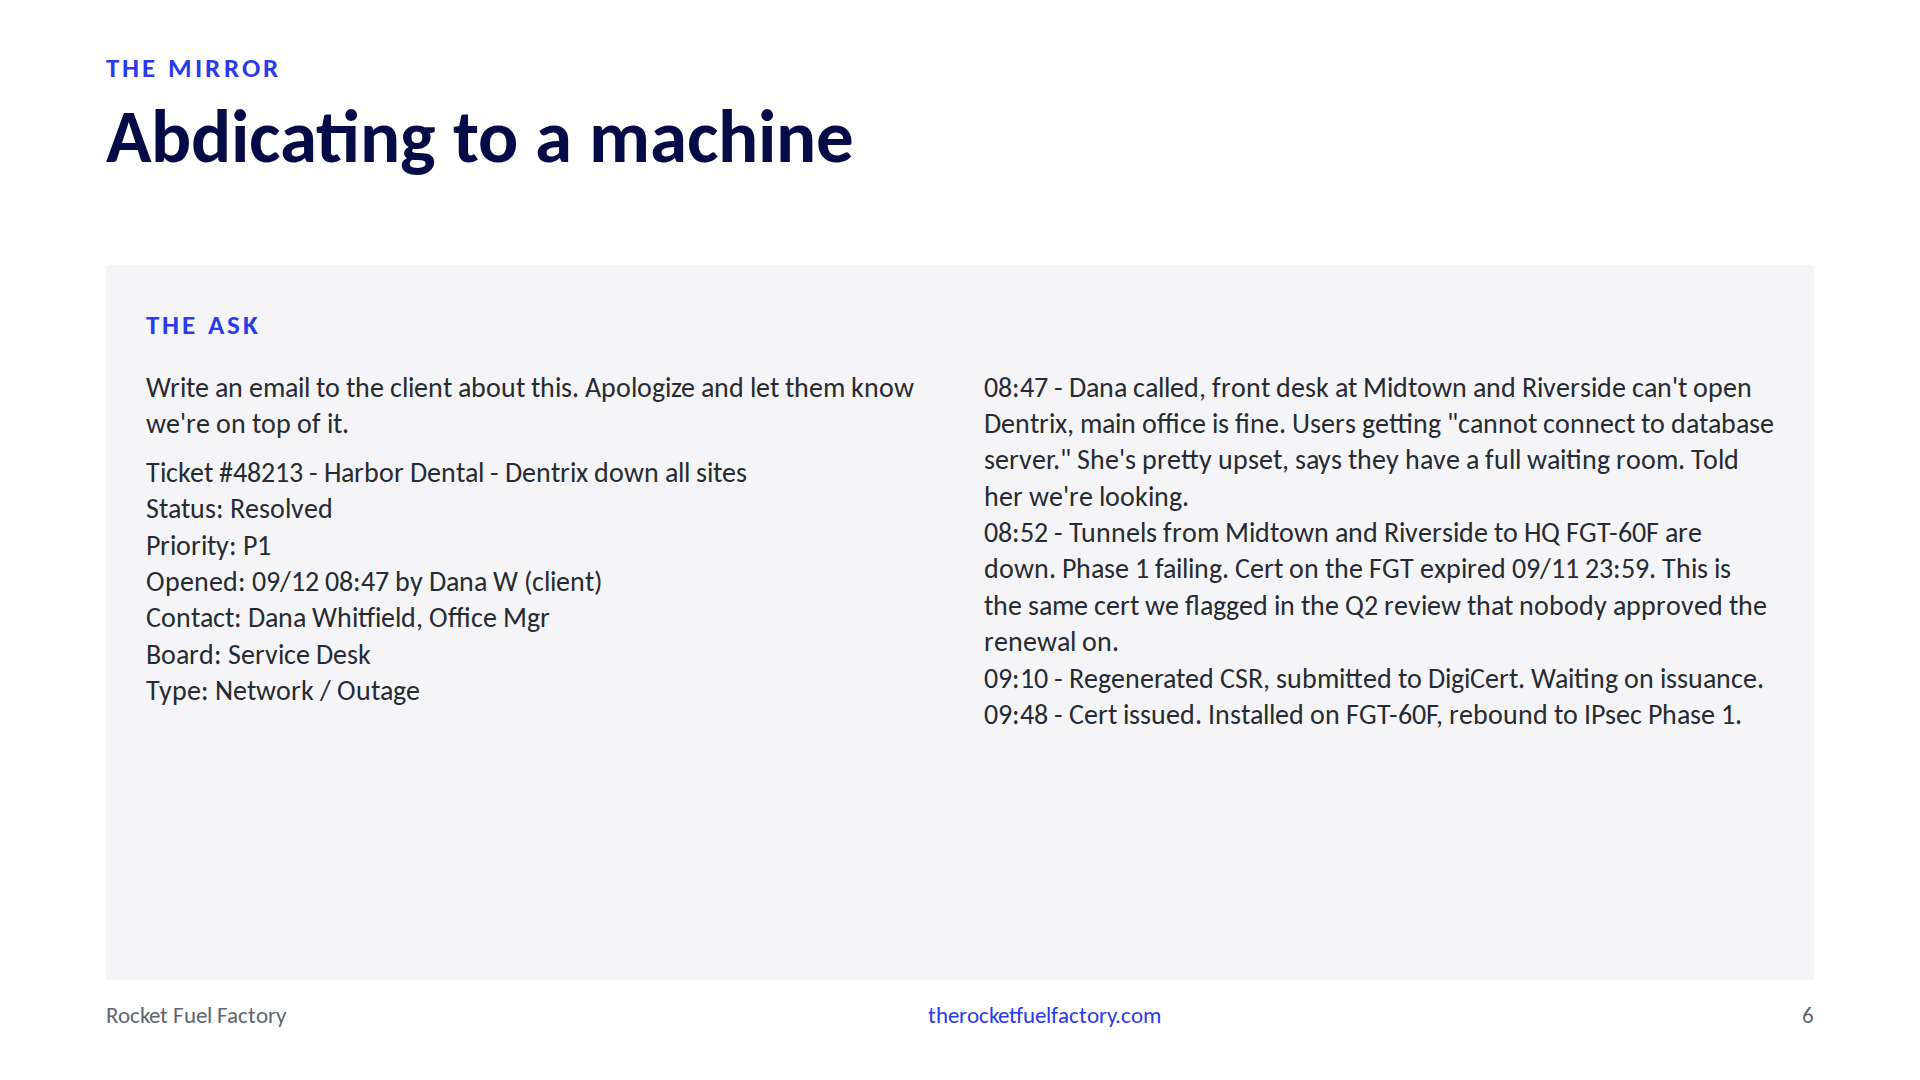
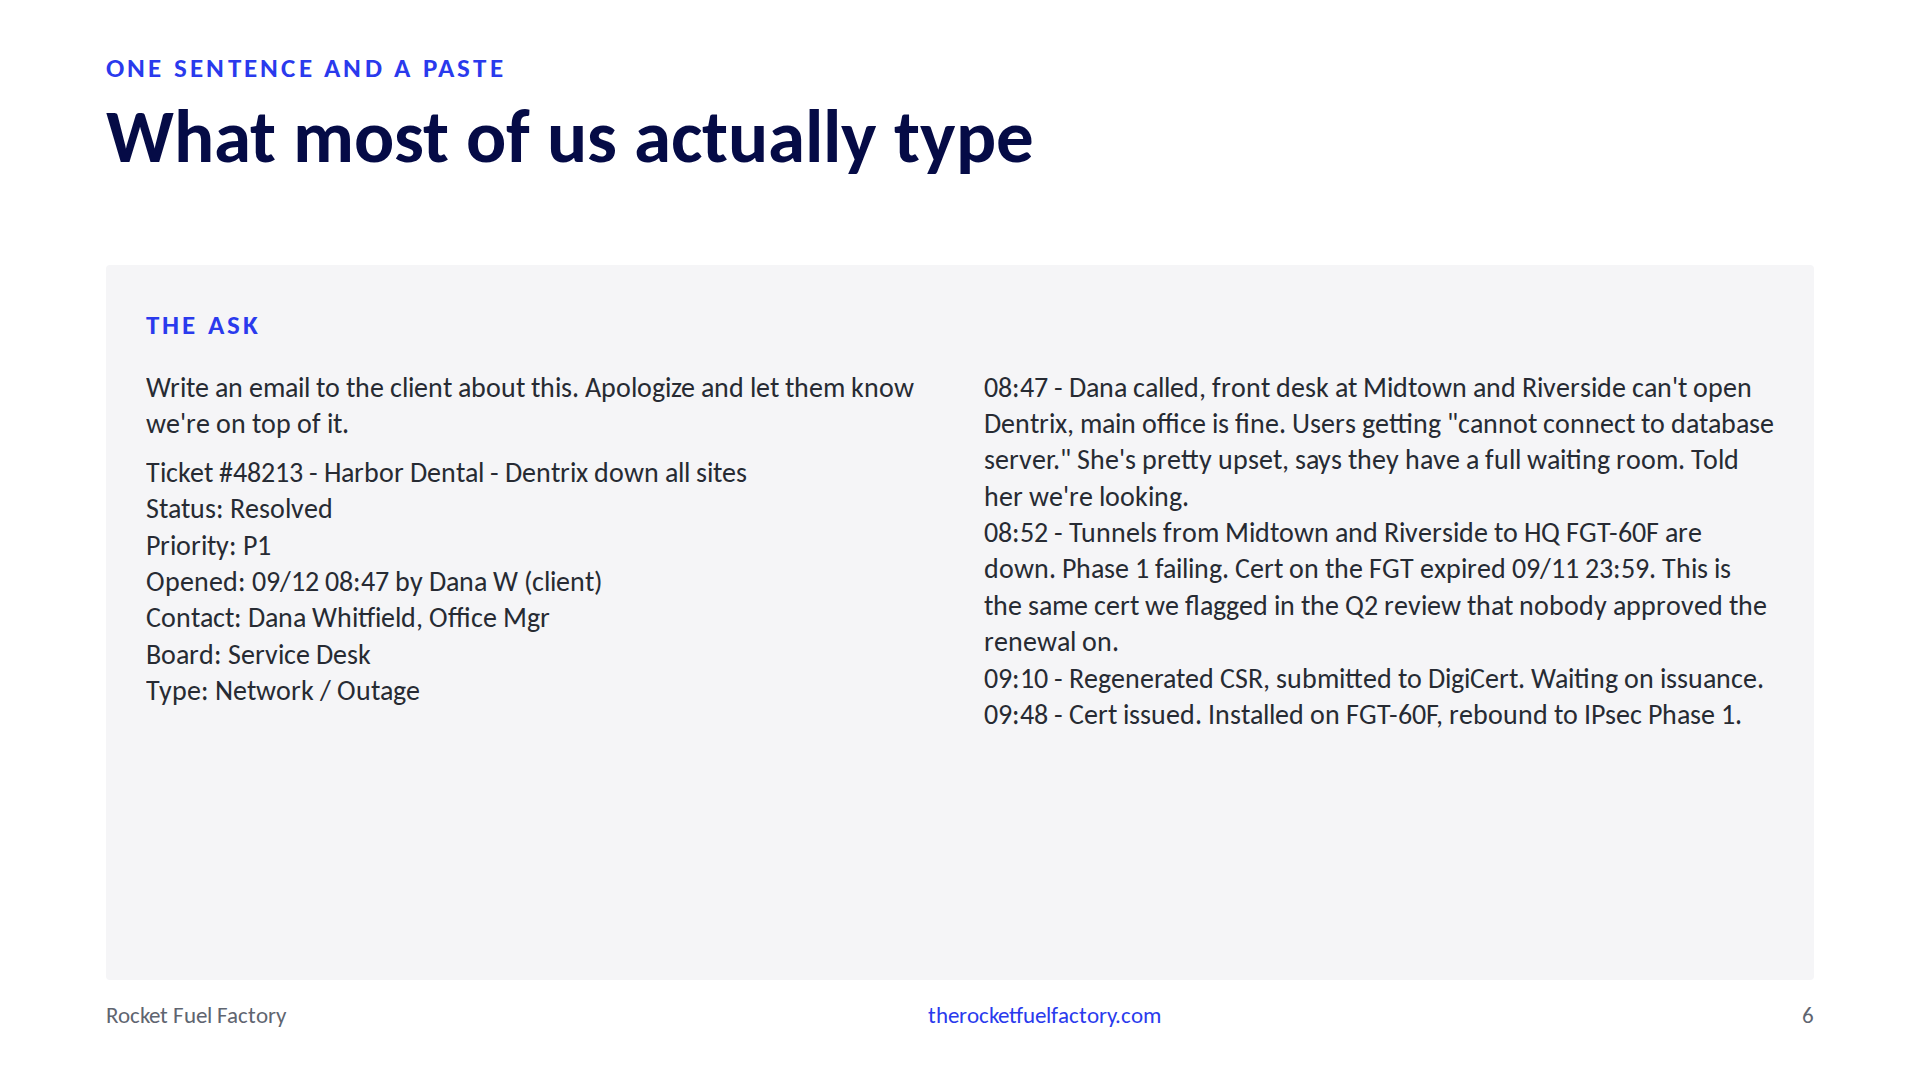
Slide 6: plain title and eyebrow, note as spoken words

Changed region(s): [[0.0625, 0.0306, 0.5625, 0.1528]]

diff --git a/src/data/notes.js b/src/data/notes.js
@@ -9,7 +9,7 @@ export const notes = {
   'the-typing-is-hiding-a-decision': 'Target 1:00. SLOW. Here is a piece of what that person carries. Take the alert that fires every night at two. They know it clears itself. They also know the one that looks identical and does not. That is a decision, and it is not in any document. Nobody has asked them for it, including you. That is also why the hire does not fix it. A new person cannot learn what nobody has written down, so in six months you have two people you cannot spare instead of one. That is why the vacation request scares you, and it is not their fault. Here is how it got that way.',
   'abdicate-not-delegate': 'Target 2:30. You hand a job to your senior tech with about two sentences, and it comes back right, so you assume the two sentences were good. They were not. That person was making a dozen small calls you never mentioned, and making them the way you would have. Then you give the same two sentences to somebody new. What comes back is wrong, and you decide the new person is not working out. The brief was the problem both times. Look at the left column. The rule for who gets a phone call took one sentence. Nobody in your shop has ever been asked for that sentence, and you have been paying for the guess instead. You only find out when you hand the job to somebody who cannot read your mind. Then you hand that same two-sentence brief to something that has never met you.',
   'the-demo-never-had-a-client': 'Target 4:00. I have sat through a lot of these. Somebody types a sentence, something gorgeous appears. Nobody in the demo checks whether the details are right, because in a demo nobody has to. And if you go back and watch one of those videos carefully, the presenter does not stop at one sentence either. They come back with more instructions. That part just gets cut short. So I go back to work and try it the same way, one sentence and a paste. What comes back is real effort and a reasonable guess at what I meant, and I would not send it. Here is what that looks like.',
-  'demo-weak': 'Target 4:50. The mirror. This is what everyone in the room actually does: one line, paste the ticket. Read the line. Point at the ticket: it has everything a tech needs. Full waiting room, FGT-60F, Phase 1, DigiCert, and the aside that we flagged this cert in Q2 and nobody approved the renewal. Your best tech reads that and knows what to leave out. This reader has no idea who Dana is. Click.',
+  'demo-weak': 'Target 4:40. This is what I type. One line, and I paste the ticket under it. Look at the ticket. It has everything a tech would need: the full waiting room, the FortiGate, Phase 1, DigiCert, and that line near the bottom about the Q2 review where nobody approved the renewal. My best tech reads that and knows what to leave out. This reader has no idea who Dana is.',
   'demo-weak-output': 'Target 5:40. Whole thing, two columns, so they can see how long it is. Read it as Dana. Ticket number in the subject line. Bold section headers like an incident report. Bottom right: Your Company Name, it did not know who was speaking. Then the blue sentence. Read it aloud: this certificate had actually been flagged for renewal in our Q2 review, and we are correcting the gap that let it lapse. That is the one line in the ticket you would never put in front of a client, and it is now in an email Dana forwards to the practice owner. When I reran this, it did that two times out of three. The third time it hid it. You did not get a vote either way. Line to land: you pasted the ticket, it told your client what you never approved. Then: it did exactly what you wrote. So did your tech. This one was fast enough for you to notice.',
   'demo-brief': 'Target 8:25. Now you know what to say. Same ticket pasted underneath; these are the words that went above it, in plain prose. Point at what the machine asked for and you supplied: who Dana is and that she forwards it to Dr. Patel, do not quote the ticket, the Q2 conversation is for me and the owner, no patient data because that is what she asked on the phone, and on top of it means monitoring by Friday. This is delegating.',
   'demo-strong': 'Target 9:40. Loud punchline: same tool, same task, the only thing that changed was how you asked. Under 150 words, Dr. Patel named, forwardable. Then the bridge, one breath, before the click. That is communication: hand over the judgment calls, not just the facts. Now take it to something bigger than an email. When you say we set up new users, what you have is a ticket with the facts. The judgment calls are in someone\'s head. You just saw what happens when you hand that to a machine. Click.',

diff --git a/src/components/slides/006-DemoWeak.jsx b/src/components/slides/006-DemoWeak.jsx
@@ -6,8 +6,8 @@ import { weakPrompt } from '../../data/demo.js'
 export default function DemoWeak({ slideNumber }) {
   return (
     <PromptOutputSlide
-      eyebrow="The mirror"
-      title="Abdicating to a machine"
+      eyebrow="One sentence and a paste"
+      title="What most of us actually type"
       accent="blue"
       slideNumber={slideNumber}
       only="prompt"

diff --git a/docs/OUTLINE.md b/docs/OUTLINE.md
@@ -40,7 +40,7 @@ Closing line: If you can't write the rule, you can't hire your way out of it eit
 
 4. Handing over the work is not the same as delegating (comparison, blue). One of slide 3's decisions made concrete. When you delegate: you hand them the queue; you wrote the rule down (call on any P1, and on anything from a client who has called twice); they check the ticket against that. When you hand over the rules too: you hand them the queue; you left the rule to them (use your judgment); they guess, and with luck they guess right. Closing, Tim's line: your best employees are the ones who usually guess right. The word is rule (what gets written), not decision (what the tech does) or judgment (what is in their head). Note: the two-sentence brief that works on your senior tech and fails on the new person; the rule took one sentence and nobody was ever asked for it; last line points at the demo without naming AI.
 5. We expect AI to do wonders with a little instruction (bullets, blue; eyebrow: what AI taught us to expect). Tim's point in his words: AI demos give a little instruction and show something beautiful built from it; beautiful does not mean the details are where you want them; you already know what a junior tech does with a ticket that thin (real effort, a reasonable guess, something you would not put your name on); AI does that too, without the pause where a person asks you a question. Note: nobody checked the details because in a demo nobody has to; you try it the same way at work; here is what that looks like. Nothing about the email; slide 6 opens cold.
-6. Abdicating to a machine (full-width ask). What everyone actually does: one line ("Write an email to the client about this. Apologize and let them know we're on top of it.") above a pasted PSA ticket. The ticket has everything a tech needs: full waiting room, FGT-60F, Phase 1, DigiCert, and the aside that this cert was flagged in the Q2 review and nobody approved the renewal. Every fact.
+6. What most of us actually type (full-width ask; eyebrow: one sentence and a paste). What owners actually do: one line ("Write an email to the client about this. Apologize and let them know we're on top of it.") above a pasted PSA ticket. The ticket has everything a tech needs: full waiting room, FGT-60F, Phase 1, DigiCert, and the aside that this cert was flagged in the Q2 review and nobody approved the renewal. Every fact.
 7. What the client would have received (full-width output, whole, two columns). Ticket number in the subject. Incident-report headers. Placeholder sign-off. And in blue, the machine's own sentence to Dana: this certificate had actually been flagged for renewal in our Q2 review, and we're correcting the gap that let it lapse. The one line in the ticket you would never put in front of a client, now in an email she forwards to the practice owner. Reran it three times: disclosed twice, hidden once, you did not get a vote either way. Line: you pasted the ticket, it told your client what you never approved. Then: it did exactly what you wrote. So did your tech. This one was fast enough for you to notice.
 8. Ask it how to ask better (prompt/output). Bridge, said aloud first: this is where most people get frustrated and stop. Do not stop, and do not just ask it to try again. Ask it how you should have asked. Its five items: who is actually reading it, what on top of it was supposed to mean, whether the Q2 detail was a feature or a liability, tone register, any business ask riding along. Punchline, its own words about the leak: I put it in. That's a 50/50 guess I shouldn't have made silently. Quiet. Try this tonight.
 9. Now with the judgment calls (full brief). Earned by the previous slide. Same ticket pasted underneath; these are the words that went above it, in prose: who Dana is and that she forwards to Dr. Patel; do not quote the ticket; the Q2 conversation is for me and the owner, not this email; no patient data touched because that is what she asked on the phone; what on top of it actually means, monitoring by Friday. This is delegating.
